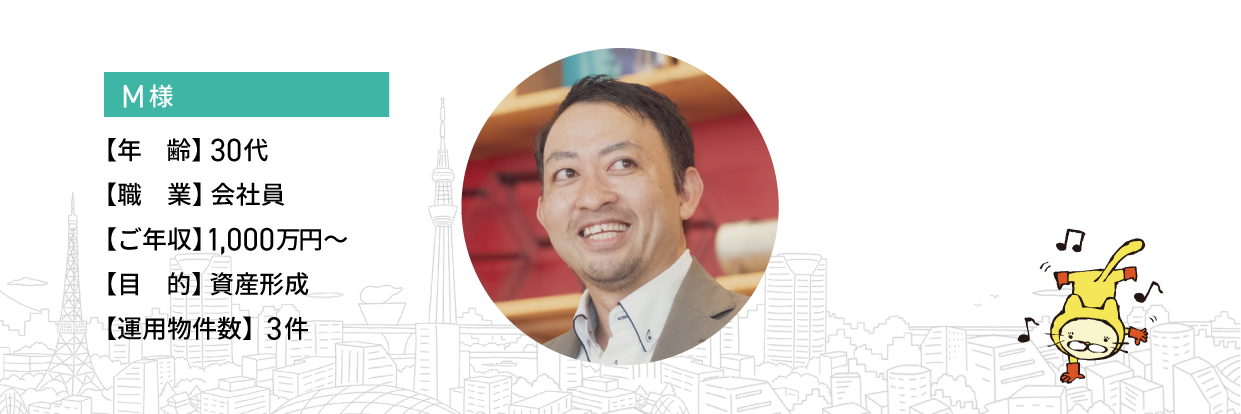
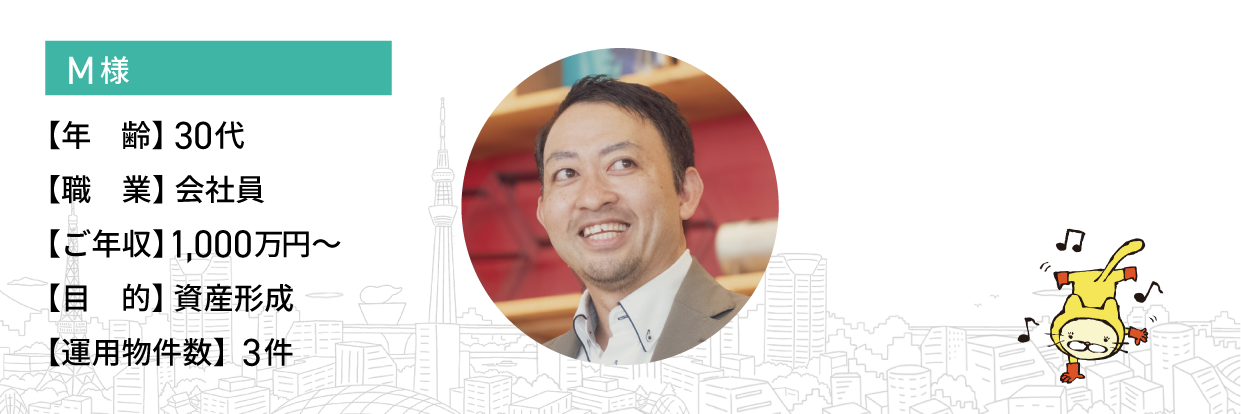
各eBookのオーナーの声データを更新し、画像を差し替え

Changed region(s): [[0.0306, 0.087, 0.3368, 0.4928], [0.0306, 0.5507, 0.2756, 0.8986]]

diff --git a/ebook/shared/style.css b/ebook/shared/style.css
@@ -384,7 +384,7 @@ body.overview {
 
 .book-image-block--size-large {
     --book-image-width: 100%;
-    --book-image-max-height: 15vh;
+    --book-image-max-height: 14vh;
 }
 
 .book-image-zoom-icon {
